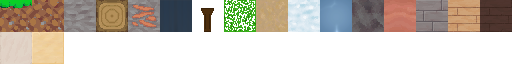
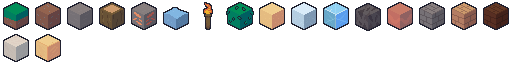
New Textures and Items
- New IconAtlas by Lyxo
- Added Items for the blocks added in previous commits
- Added SOP for creating new Items

diff --git a/Assets/Scripts/Items/SandstoneBrickblock_Item.cs b/Assets/Scripts/Items/SandstoneBrickblock_Item.cs
@@ -1,0 +1,26 @@
+using System.Collections;
+using System.Collections.Generic;
+using UnityEngine;
+
+public class SandstoneBrickblock_Item : Item, IPlaceable
+{
+	public ushort placeableBlockID {get; set;}
+
+	public SandstoneBrickblock_Item(){
+		this.SetName("Sandstone Bricks");
+		this.SetDescription("Pretty chiseled sandstone");
+		this.SetID(ItemID.SANDSTONEBRICKBLOCK);
+		this.SetIconID(1, 1);
+		this.SetStackSize(50);
+		this.SetPrice(11);
+		this.SetPriceVar(2);
+		this.SetAspects(new Dictionary<ThaumicAspect, byte>(){{ThaumicAspect.Terra, 2}, {ThaumicAspect.Ordo, 1}});
+		this.SetTags(new List<ItemTag>(){ItemTag.Placeable, ItemTag.Stone});
+		this.SetDurability(false);
+		this.placeableBlockID = (ushort)BlockID.SANDSTONE_BRICK;
+	}
+
+	public override int Use(){
+		return this.placeableBlockID;
+	}
+}

diff --git a/Assets/Scripts/Items/WoodenPlankRegularblock_Item.cs b/Assets/Scripts/Items/WoodenPlankRegularblock_Item.cs
@@ -1,0 +1,26 @@
+using System.Collections;
+using System.Collections.Generic;
+using UnityEngine;
+
+public class WoodenPlankRegularblock_Item : Item, IPlaceable
+{
+	public ushort placeableBlockID {get; set;}
+
+	public WoodenPlankRegularblock_Item(){
+		this.SetName("Wooden Planks");
+		this.SetDescription("Basic planks made from basic trees");
+		this.SetID(ItemID.WOODENPLANKSREGULARBLOCK);
+		this.SetIconID(14, 0);
+		this.SetStackSize(50);
+		this.SetPrice(4);
+		this.SetPriceVar(3);
+		this.SetAspects(new Dictionary<ThaumicAspect, byte>(){{ThaumicAspect.Arbor, 1}});
+		this.SetTags(new List<ItemTag>(){ItemTag.Placeable, ItemTag.Wood});
+		this.SetDurability(false);
+		this.placeableBlockID = (ushort)BlockID.WOODEN_PLANKS_REGULAR;
+	}
+
+	public override int Use(){
+		return this.placeableBlockID;
+	}
+}

diff --git a/Assets/Scripts/Items/WoodenPlankPineblock_Item.cs b/Assets/Scripts/Items/WoodenPlankPineblock_Item.cs
@@ -1,0 +1,26 @@
+using System.Collections;
+using System.Collections.Generic;
+using UnityEngine;
+
+public class WoodenPlankPineblock_Item : Item, IPlaceable
+{
+	public ushort placeableBlockID {get; set;}
+
+	public WoodenPlankPineblock_Item(){
+		this.SetName("Pine Planks");
+		this.SetDescription("Pine planks made from pine trees");
+		this.SetID(ItemID.WOODENPLANKSPINEBLOCK);
+		this.SetIconID(15, 0);
+		this.SetStackSize(50);
+		this.SetPrice(4);
+		this.SetPriceVar(3);
+		this.SetAspects(new Dictionary<ThaumicAspect, byte>(){{ThaumicAspect.Arbor, 1}});
+		this.SetTags(new List<ItemTag>(){ItemTag.Placeable, ItemTag.Wood});
+		this.SetDurability(false);
+		this.placeableBlockID = (ushort)BlockID.WOODEN_PLANKS_PINE;
+	}
+
+	public override int Use(){
+		return this.placeableBlockID;
+	}
+}

diff --git a/Assets/Scripts/Items/StoneBrickblock_Item.cs b/Assets/Scripts/Items/StoneBrickblock_Item.cs
@@ -1,0 +1,26 @@
+using System.Collections;
+using System.Collections.Generic;
+using UnityEngine;
+
+public class StoneBrickblock_Item : Item, IPlaceable
+{
+	public ushort placeableBlockID {get; set;}
+
+	public StoneBrickblock_Item(){
+		this.SetName("Stone Bricks");
+		this.SetDescription("Ordered stone");
+		this.SetID(ItemID.STONEBRICKBLOCK);
+		this.SetIconID(13, 0);
+		this.SetStackSize(50);
+		this.SetPrice(1);
+		this.SetPriceVar(0);
+		this.SetAspects(new Dictionary<ThaumicAspect, byte>(){{ThaumicAspect.Terra, 2}, {ThaumicAspect.Ordo, 1}});
+		this.SetTags(new List<ItemTag>(){ItemTag.Placeable, ItemTag.Stone});
+		this.SetDurability(false);
+		this.placeableBlockID = (ushort)BlockID.STONE_BRICK;
+	}
+
+	public override int Use(){
+		return this.placeableBlockID;
+	}
+}

diff --git a/Assets/Scripts/Items/Basaltblock_Item.cs b/Assets/Scripts/Items/Basaltblock_Item.cs
@@ -1,0 +1,25 @@
+using System.Collections;
+using System.Collections.Generic;
+
+public class Basaltblock_Item : Item, IPlaceable
+{
+	public ushort placeableBlockID {get; set;}
+
+	public Basaltblock_Item(){
+		this.SetName("Basalt Block");
+		this.SetDescription("Straight from a volcano");
+		this.SetID(ItemID.BASALTBLOCK);
+		this.SetIconID(11, 0);
+		this.SetStackSize(50);
+		this.SetPrice(3);
+		this.SetPriceVar(1);
+		this.SetAspects(new Dictionary<ThaumicAspect, byte>(){{ThaumicAspect.Terra, 2}, {ThaumicAspect.Ignis, 1}});
+		this.SetTags(new List<ItemTag>(){ItemTag.Placeable, ItemTag.Stone});
+		this.SetDurability(false);
+		this.placeableBlockID = (ushort)BlockID.BASALT;
+	}
+
+	public override int Use(){
+		return this.placeableBlockID;
+	}
+}

diff --git a/Assets/Scripts/Items/Clayblock_Item.cs b/Assets/Scripts/Items/Clayblock_Item.cs
@@ -1,0 +1,25 @@
+using System.Collections;
+using System.Collections.Generic;
+
+public class Clayblock_Item : Item, IPlaceable
+{
+	public ushort placeableBlockID {get; set;}
+
+	public Clayblock_Item(){
+		this.SetName("Clay Block");
+		this.SetDescription("Can be molded into other things");
+		this.SetID(ItemID.CLAYBLOCK);
+		this.SetIconID(12, 0);
+		this.SetStackSize(50);
+		this.SetPrice(5);
+		this.SetPriceVar(1);
+		this.SetAspects(new Dictionary<ThaumicAspect, byte>(){{ThaumicAspect.Terra, 2}, {ThaumicAspect.Aqua, 1}});
+		this.SetTags(new List<ItemTag>(){ItemTag.Placeable});
+		this.SetDurability(false);
+		this.placeableBlockID = (ushort)BlockID.CLAY;
+	}
+
+	public override int Use(){
+		return this.placeableBlockID;
+	}
+}

diff --git a/Assets/Scripts/Items/Boneblock_Item.cs b/Assets/Scripts/Items/Boneblock_Item.cs
@@ -1,0 +1,25 @@
+using System.Collections;
+using System.Collections.Generic;
+
+public class Boneblock_Item : Item, IPlaceable
+{
+	public ushort placeableBlockID {get; set;}
+
+	public Boneblock_Item(){
+		this.SetName("Bone Block");
+		this.SetDescription("It was a living thing at some moment");
+		this.SetID(ItemID.BONEBLOCK);
+		this.SetIconID(0, 1);
+		this.SetStackSize(50);
+		this.SetPrice(14);
+		this.SetPriceVar(2);
+		this.SetAspects(new Dictionary<ThaumicAspect, byte>(){{ThaumicAspect.Mortus, 6}});
+		this.SetTags(new List<ItemTag>(){ItemTag.Placeable});
+		this.SetDurability(false);
+		this.placeableBlockID = (ushort)BlockID.BONE;
+	}
+
+	public override int Use(){
+		return this.placeableBlockID;
+	}
+}

diff --git a/Assets/Scripts/Item.cs b/Assets/Scripts/Item.cs
@@ -81,6 +81,20 @@ public abstract class Item
 				return new Snowblock_Item();
 			case ItemID.ICEBLOCK:
 				return new Iceblock_Item();
+			case ItemID.BASALTBLOCK:
+				return new Basaltblock_Item();
+			case ItemID.CLAYBLOCK:
+				return new Clayblock_Item();
+			case ItemID.STONEBRICKBLOCK:
+				return new StoneBrickblock_Item();
+			case ItemID.WOODENPLANKSREGULARBLOCK:
+				return new WoodenPlankRegularblock_Item();
+			case ItemID.WOODENPLANKSPINEBLOCK:
+				return new WoodenPlankPineblock_Item();
+			case ItemID.BONEBLOCK:
+				return new Boneblock_Item();
+			case ItemID.SANDSTONEBRICKBLOCK:
+				return new SandstoneBrickblock_Item();
 			default:
 				return null;
 		}

diff --git a/Assets/Scripts/Items/Woodblock_Item.cs b/Assets/Scripts/Items/Woodblock_Item.cs
@@ -14,7 +14,7 @@ public class Woodblock_Item : Item, IPlaceable
 		this.SetStackSize(50);
 		this.SetPrice(10);
 		this.SetPriceVar(6);
-		this.SetAspects(new Dictionary<ThaumicAspect, byte>(){{ThaumicAspect.Arbor, 1}});
+		this.SetAspects(new Dictionary<ThaumicAspect, byte>(){{ThaumicAspect.Arbor, 2}});
 		this.SetTags(new List<ItemTag>(){ItemTag.Placeable, ItemTag.Wood});
 		this.SetDurability(false);
 		this.placeableBlockID = 4;

diff --git a/Assets/Scripts/ChunkLoader_Server.cs b/Assets/Scripts/ChunkLoader_Server.cs
@@ -433,6 +433,9 @@ public class ChunkLoader_Server : MonoBehaviour
             else if(i == 3){
                 slots[i] = new ItemPlayerInventorySlot(ItemID.ICEBLOCK, 50);
             }
+            else if(i == 4){
+                slots[i] = new ItemPlayerInventorySlot(ItemID.BASALTBLOCK, 50);
+            }
             else{
                 slots[i] = new EmptyPlayerInventorySlot();
             }

diff --git a/Assets/Scripts/ItemID.cs b/Assets/Scripts/ItemID.cs
@@ -11,5 +11,12 @@ public enum ItemID : ushort {
 	LEAFBLOCK,
 	SANDBLOCK,
 	SNOWBLOCK,
-	ICEBLOCK
+	ICEBLOCK,
+    BASALTBLOCK,
+    CLAYBLOCK,
+    STONEBRICKBLOCK,
+    WOODENPLANKSREGULARBLOCK,
+    WOODENPLANKSPINEBLOCK,
+    BONEBLOCK,
+    SANDSTONEBRICKBLOCK
 }

diff --git a/Assets/Scripts/PlayerEvents.cs b/Assets/Scripts/PlayerEvents.cs
@@ -147,6 +147,7 @@ public class PlayerEvents : MonoBehaviour
 			hotbarText[slot].text = "";
 		}
 		else{
+			Debug.Log(its.GetItemIconName());
 			hotbarIcon[slot].sprite = iconAtlas.GetSprite(its.GetItemIconName());
 			hotbarIcon[slot].color = this.WHITE;
 
